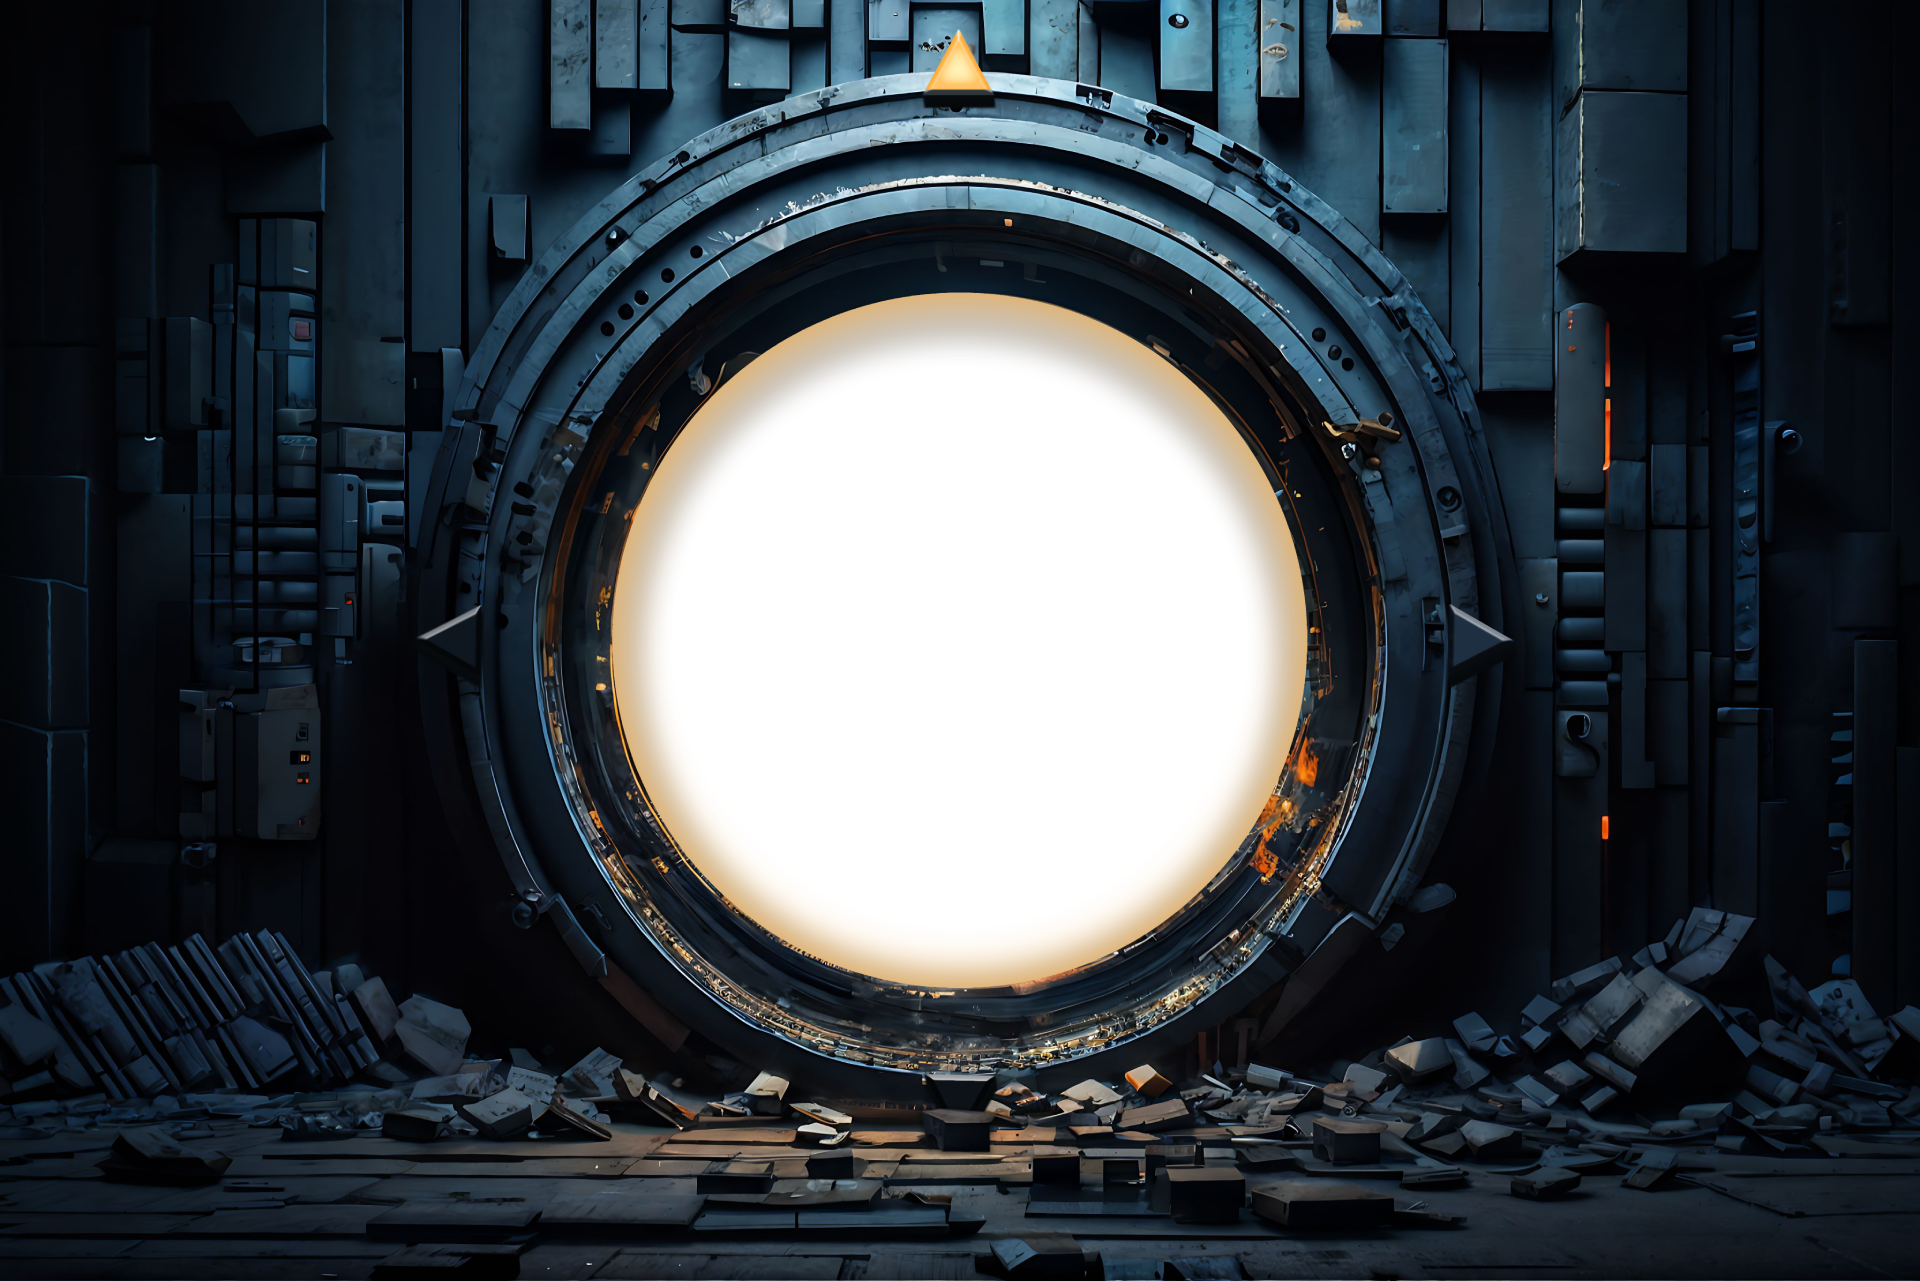
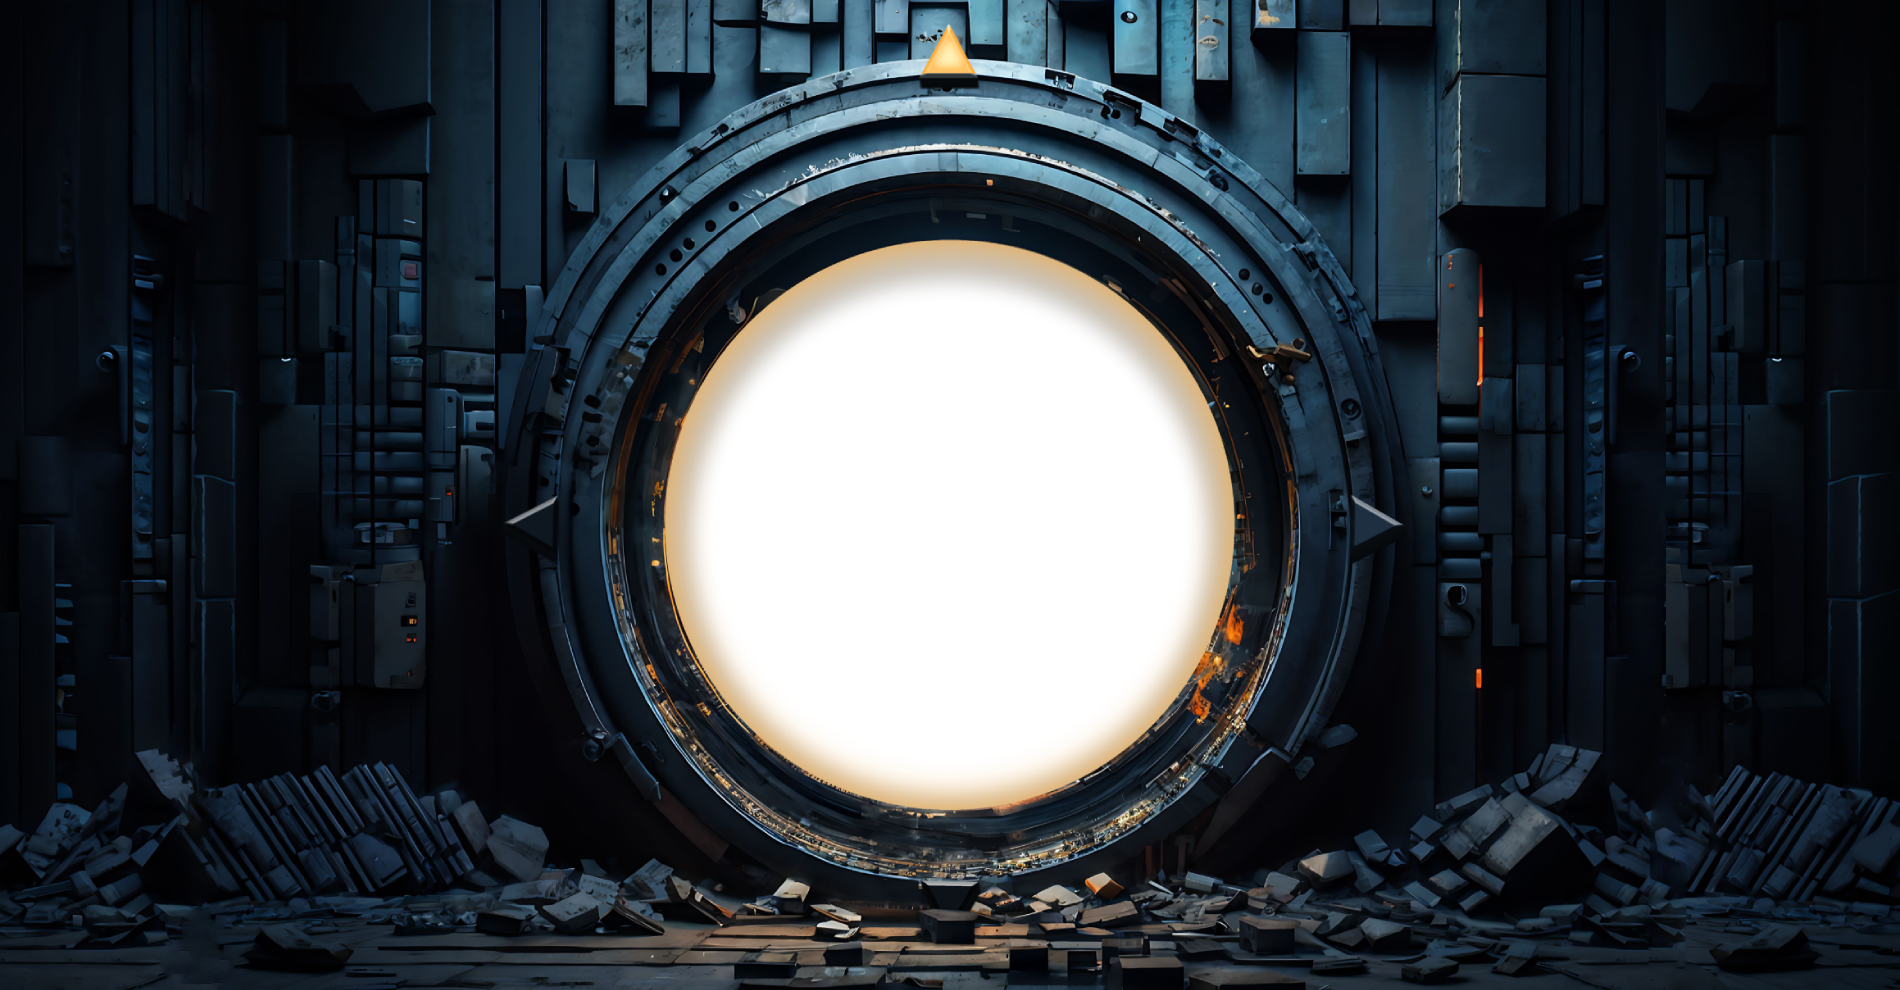
added cool transaitions

diff --git a/src/components/ui/zoomScroll.jsx b/src/components/ui/zoomScroll.jsx
@@ -1,10 +1,11 @@
 import React, { useRef, useEffect, useState } from 'react';
 import { gsap } from 'gsap';
-  
+import Container from '@mui/material/Container';
+import { BorderBottom, WidthFull } from '@mui/icons-material';
+
 const ZoomOnScrollImage = ({ src, alt }) => {
   const imgRef = useRef(null);
-  const [fullyScrolled, setFullyScrolled] = useState(false);
-  const [halfScrolled, setHalfScrolled] = useState(false);
+   const [halfScrolled, setHalfScrolled] = useState(false);
 
   useEffect(() => {
     const handleScroll = () => {
@@ -36,26 +37,25 @@ const ZoomOnScrollImage = ({ src, alt }) => {
 
   return (
  
-    <div className='login_portal' style={{ position: 'relative', overflow: 'hidden', height: '100vh' }}>
-      <img
+    <div className='login_portal' style={{ position: 'relative', overflow: 'hidden', height: '100vh'}}>
+      <img className='portalImg'
         ref={imgRef}
         src={src}
         alt={alt}
         style={{
-             width: '100vw', // Full viewport width
-            height: '100%', // Full viewport height
+            Width: 'auto',
+             height: '100%', // Full viewport height
             objectFit: 'cover',
             position: 'fixed',
             top: '50%',
             transform: 'translate(-50%, -50%)', // Center the image
             transition: 'transform 0.1s ease-out',
             pointerEvents: halfScrolled ? 'none' : 'auto', // Disable pointer events if scrolled more than halfway
-  
           }}
       />
     
     </div>
-  );
+   );
 };
 
 export default ZoomOnScrollImage;

diff --git a/src/App.jsx b/src/App.jsx
@@ -7,26 +7,30 @@ import AboutPage from './components/pages/AboutPage';
 import Navigation from './components/Navigation';
 import NotFoundPage from './components/pages/notFound';
 import AnimatedBg from './components/ui/Particles';
-import ZoomOnScrollImage from './components/ui/zoomScroll';
+import Container from '@mui/material/Container';
+import { Padding } from '@mui/icons-material';
 
 function App() {
   return (
     <>
-          
-           <AnimatedBg />
 
-          <Router>
+      <AnimatedBg />
+
+      <Router>
+        <Container maxWidth="lg">
+
           <Navigation />
 
-            <Routes>
-              <Route path="/" element={<HomePage />} />
-              <Route path="/about" element={<AboutPage />} />
-              <Route path="*" element={<NotFoundPage />} />
-            </Routes>
+        </Container>
+        <Routes>
+          <Route path="/" element={<HomePage />} />
+          <Route path="/about" element={<AboutPage />} />
+          <Route path="*" element={<NotFoundPage />} />
+        </Routes>
 
-          </Router>
-           
-      </>
+      </Router>
+
+    </>
   );
 }
 

diff --git a/src/components/assets/css/base.scss b/src/components/assets/css/base.scss
@@ -21,10 +21,9 @@ body {
  
  }
 
-.login_portal {
-  position: absolute;
-    z-index: 20!important; /* Use a low z-index to place it behind other elements */
-
+.portalImg {
+  margin-top: 40px!important;
+ 
 }
 
 
